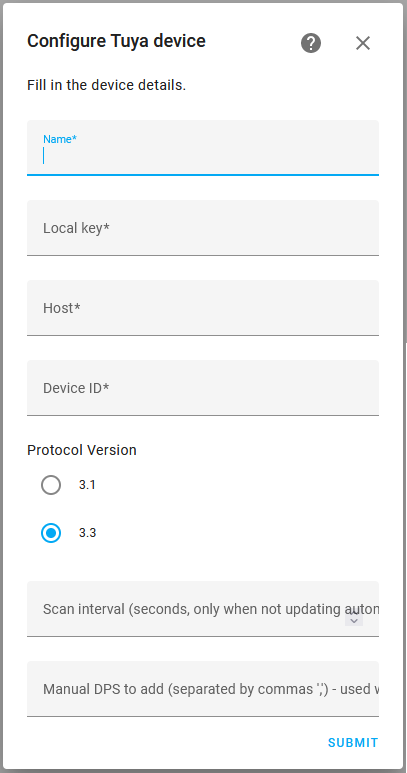
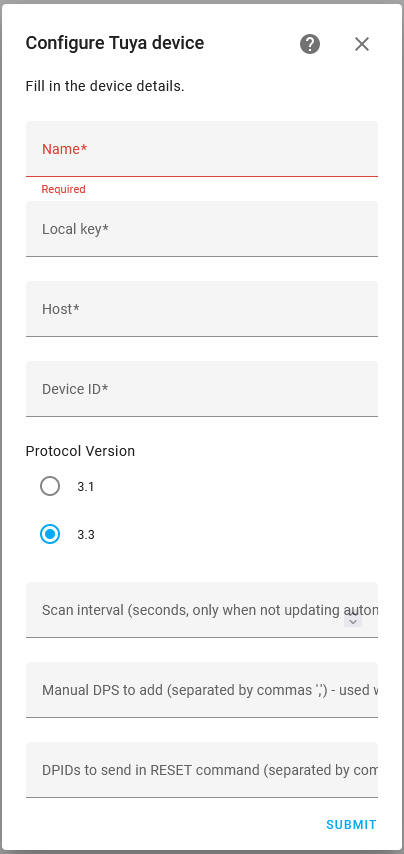
Implementing RESET Tuya function to enable devices which are stuck in a zombie mode to start responding to commands. Added configurable DPS for Reset command as found devices wouldn't 'wake up' unless they had exactly the right entries

diff --git a/custom_components/localtuya/common.py b/custom_components/localtuya/common.py
@@ -35,6 +35,7 @@ from .const import (
     CONF_DEFAULT_VALUE,
     ATTR_STATE,
     CONF_RESTORE_ON_RECONNECT,
+    CONF_RESET_DPIDS,
 )
 
 _LOGGER = logging.getLogger(__name__)
@@ -143,6 +144,14 @@ class TuyaDevice(pytuya.TuyaListener, pytuya.ContextualLogger):
         self._unsub_interval = None
         self._entities = []
         self._local_key = self._dev_config_entry[CONF_LOCAL_KEY]
+        self._default_reset_dpids = None
+        if CONF_RESET_DPIDS in self._dev_config_entry:
+            reset_ids_str = self._dev_config_entry[CONF_RESET_DPIDS].split(",")
+
+            self._default_reset_dpids = []
+            for reset_id in reset_ids_str:
+                self._default_reset_dpids.append(int(reset_id.strip()))
+
         self.set_logger(_LOGGER, self._dev_config_entry[CONF_DEVICE_ID])
 
         # This has to be done in case the device type is type_0d
@@ -181,14 +190,60 @@ class TuyaDevice(pytuya.TuyaListener, pytuya.ContextualLogger):
                 self,
             )
             self._interface.add_dps_to_request(self.dps_to_request)
+        except Exception:  # pylint: disable=broad-except
+            self.exception(f"Connect to {self._dev_config_entry[CONF_HOST]} failed")
+            if self._interface is not None:
+                await self._interface.close()
+                self._interface = None
 
-            self.debug("Retrieving initial state")
-            status = await self._interface.status()
-            if status is None:
-                raise Exception("Failed to retrieve status")
+        if self._interface is not None:
+            try:
+                self.debug("Retrieving initial state")
+                status = await self._interface.status()
+                if status is None:
+                    raise Exception("Failed to retrieve status")
 
-            self.status_updated(status)
+                self._interface.start_heartbeat()
+                self.status_updated(status)
 
+            except Exception as ex:  # pylint: disable=broad-except
+                try:
+                    self.debug(
+                        "Initial state update failed, trying reset command "
+                        + "for DP IDs: %s",
+                        self._default_reset_dpids,
+                    )
+                    await self._interface.reset(self._default_reset_dpids)
+
+                    self.debug("Update completed, retrying initial state")
+                    status = await self._interface.status()
+                    if status is None or not status:
+                        raise Exception("Failed to retrieve status") from ex
+
+                    self._interface.start_heartbeat()
+                    self.status_updated(status)
+
+                except UnicodeDecodeError as e:  # pylint: disable=broad-except
+                    self.exception(
+                        f"Connect to {self._dev_config_entry[CONF_HOST]} failed: %s",
+                        type(e),
+                    )
+                    if self._interface is not None:
+                        await self._interface.close()
+                        self._interface = None
+
+                except Exception as e:  # pylint: disable=broad-except
+                    self.exception(
+                        f"Connect to {self._dev_config_entry[CONF_HOST]} failed"
+                    )
+                    if "json.decode" in str(type(e)):
+                        await self.update_local_key()
+
+                    if self._interface is not None:
+                        await self._interface.close()
+                        self._interface = None
+
+        if self._interface is not None:
             # Attempt to restore status for all entities that need to first set
             # the DPS value before the device will respond with status.
             for entity in self._entities:
@@ -216,22 +271,7 @@ class TuyaDevice(pytuya.TuyaListener, pytuya.ContextualLogger):
                     self._async_refresh,
                     timedelta(seconds=self._dev_config_entry[CONF_SCAN_INTERVAL]),
                 )
-        except UnicodeDecodeError as e:  # pylint: disable=broad-except
-            self.exception(
-                f"Connect to {self._dev_config_entry[CONF_HOST]} failed: %s", type(e)
-            )
-            if self._interface is not None:
-                await self._interface.close()
-                self._interface = None
 
-        except Exception as e:  # pylint: disable=broad-except
-            self.exception(f"Connect to {self._dev_config_entry[CONF_HOST]} failed")
-            if "json.decode" in str(type(e)):
-                await self.update_local_key()
-
-            if self._interface is not None:
-                await self._interface.close()
-                self._interface = None
         self._connect_task = None
 
     async def update_local_key(self):

diff --git a/custom_components/localtuya/pytuya/__init__.py b/custom_components/localtuya/pytuya/__init__.py
@@ -62,6 +62,7 @@ TuyaMessage = namedtuple("TuyaMessage", "seqno cmd retcode payload crc")
 SET = "set"
 STATUS = "status"
 HEARTBEAT = "heartbeat"
+RESET = "reset"
 UPDATEDPS = "updatedps"  # Request refresh of DPS
 
 PROTOCOL_VERSION_BYTES_31 = b"3.1"
@@ -96,6 +97,16 @@ PAYLOAD_DICT = {
         SET: {"hexByte": 0x07, "command": {"devId": "", "uid": "", "t": ""}},
         HEARTBEAT: {"hexByte": 0x09, "command": {}},
         UPDATEDPS: {"hexByte": 0x12, "command": {"dpId": [18, 19, 20]}},
+        RESET: {
+            "hexByte": 0x12,
+            "command": {
+                "gwId": "",
+                "devId": "",
+                "uid": "",
+                "t": "",
+                "dpId": [18, 19, 20],
+            },
+        },
     },
     "type_0d": {
         STATUS: {"hexByte": 0x0D, "command": {"devId": "", "uid": "", "t": ""}},
@@ -217,6 +228,7 @@ class MessageDispatcher(ContextualLogger):
     # Heartbeats always respond with sequence number 0, so they can't be waited for like
     # other messages. This is a hack to allow waiting for heartbeats.
     HEARTBEAT_SEQNO = -100
+    RESET_SEQNO = -101
 
     def __init__(self, dev_id, listener):
         """Initialize a new MessageBuffer."""
@@ -301,9 +313,19 @@ class MessageDispatcher(ContextualLogger):
                 sem.release()
         elif msg.cmd == 0x12:
             self.debug("Got normal updatedps response")
+            if self.RESET_SEQNO in self.listeners:
+                sem = self.listeners[self.RESET_SEQNO]
+                self.listeners[self.RESET_SEQNO] = msg
+                sem.release()
         elif msg.cmd == 0x08:
-            self.debug("Got status update")
-            self.listener(msg)
+            if self.RESET_SEQNO in self.listeners:
+                self.debug("Got reset status update")
+                sem = self.listeners[self.RESET_SEQNO]
+                self.listeners[self.RESET_SEQNO] = msg
+                sem.release()
+            else:
+                self.debug("Got status update")
+                self.listener(msg)
         else:
             self.debug(
                 "Got message type %d for unknown listener %d: %s",
@@ -381,6 +403,11 @@ class TuyaProtocol(asyncio.Protocol, ContextualLogger):
 
     def connection_made(self, transport):
         """Did connect to the device."""
+        self.transport = transport
+        self.on_connected.set_result(True)
+
+    def start_heartbeat(self):
+        """Start the heartbeat transmissions with the device."""
 
         async def heartbeat_loop():
             """Continuously send heart beat updates."""
@@ -403,8 +430,6 @@ class TuyaProtocol(asyncio.Protocol, ContextualLogger):
             self.transport = None
             transport.close()
 
-        self.transport = transport
-        self.on_connected.set_result(True)
         self.heartbeater = self.loop.create_task(heartbeat_loop())
 
     def data_received(self, data):
@@ -449,12 +474,13 @@ class TuyaProtocol(asyncio.Protocol, ContextualLogger):
         payload = self._generate_payload(command, dps)
         dev_type = self.dev_type
 
-        # Wait for special sequence number if heartbeat
-        seqno = (
-            MessageDispatcher.HEARTBEAT_SEQNO
-            if command == HEARTBEAT
-            else (self.seqno - 1)
-        )
+        # Wait for special sequence number if heartbeat or reset
+        seqno = self.seqno - 1
+
+        if command == HEARTBEAT:
+            seqno = MessageDispatcher.HEARTBEAT_SEQNO
+        elif command == RESET:
+            seqno = MessageDispatcher.RESET_SEQNO
 
         self.transport.write(payload)
         msg = await self.dispatcher.wait_for(seqno)
@@ -486,6 +512,15 @@ class TuyaProtocol(asyncio.Protocol, ContextualLogger):
     async def heartbeat(self):
         """Send a heartbeat message."""
         return await self.exchange(HEARTBEAT)
+
+    async def reset(self, dpIds=None):
+        """Send a reset message (3.3 only)."""
+        if self.version == 3.3:
+            self.dev_type = "type_0a"
+            self.debug("reset switching to dev_type %s", self.dev_type)
+            return await self.exchange(RESET, dpIds)
+
+        return True
 
     async def update_dps(self, dps=None):
         """

diff --git a/custom_components/localtuya/config_flow.py b/custom_components/localtuya/config_flow.py
@@ -38,6 +38,7 @@ from .const import (
     CONF_NO_CLOUD,
     CONF_PRODUCT_NAME,
     CONF_PROTOCOL_VERSION,
+    CONF_RESET_DPIDS,
     CONF_SETUP_CLOUD,
     CONF_USER_ID,
     DATA_CLOUD,
@@ -90,6 +91,7 @@ CONFIGURE_DEVICE_SCHEMA = vol.Schema(
         vol.Required(CONF_PROTOCOL_VERSION, default="3.3"): vol.In(["3.1", "3.3"]),
         vol.Optional(CONF_SCAN_INTERVAL): int,
         vol.Optional(CONF_MANUAL_DPS): str,
+        vol.Optional(CONF_RESET_DPIDS): str,
     }
 )
 
@@ -102,6 +104,7 @@ DEVICE_SCHEMA = vol.Schema(
         vol.Required(CONF_PROTOCOL_VERSION, default="3.3"): vol.In(["3.1", "3.3"]),
         vol.Optional(CONF_SCAN_INTERVAL): int,
         vol.Optional(CONF_MANUAL_DPS): cv.string,
+        vol.Optional(CONF_RESET_DPIDS): str,
     }
 )
 
@@ -144,6 +147,7 @@ def options_schema(entities):
             vol.Required(CONF_PROTOCOL_VERSION, default="3.3"): vol.In(["3.1", "3.3"]),
             vol.Optional(CONF_SCAN_INTERVAL): int,
             vol.Optional(CONF_MANUAL_DPS): str,
+            vol.Optional(CONF_RESET_DPIDS): str,
             vol.Required(
                 CONF_ENTITIES, description={"suggested_value": entity_names}
             ): cv.multi_select(entity_names),
@@ -235,6 +239,8 @@ async def validate_input(hass: core.HomeAssistant, data):
     detected_dps = {}
 
     interface = None
+
+    reset_ids = None
     try:
         interface = await pytuya.connect(
             data[CONF_HOST],
@@ -243,20 +249,39 @@ async def validate_input(hass: core.HomeAssistant, data):
             float(data[CONF_PROTOCOL_VERSION]),
         )
 
-        detected_dps = await interface.detect_available_dps()
+        try:
+            detected_dps = await interface.detect_available_dps()
+        except Exception:  # pylint: disable=broad-except
+            try:
+                _LOGGER.debug("Initial state update failed, trying reset command")
+                if CONF_RESET_DPIDS in data:
+                    reset_ids_str = data[CONF_RESET_DPIDS].split(",")
+                    reset_ids = []
+                    for reset_id in reset_ids_str:
+                        reset_ids.append(int(reset_id.strip()))
+                    _LOGGER.debug(
+                        "Reset DPIDs configured: %s (%s)",
+                        data[CONF_RESET_DPIDS],
+                        reset_ids,
+                    )
+                await interface.reset(reset_ids)
+                detected_dps = await interface.detect_available_dps()
+            except Exception:  # pylint: disable=broad-except
+                _LOGGER.debug("No DPS able to be detected")
+                detected_dps = {}
 
         # if manual DPs are set, merge these.
         _LOGGER.debug("Detected DPS: %s", detected_dps)
         if CONF_MANUAL_DPS in data:
 
-            manual_dps_list = data[CONF_MANUAL_DPS].split(",")
+            manual_dps_list = [dps.strip() for dps in data[CONF_MANUAL_DPS].split(",")]
             _LOGGER.debug(
                 "Manual DPS Setting: %s (%s)", data[CONF_MANUAL_DPS], manual_dps_list
             )
             # merge the lists
-            for new_dps in manual_dps_list:
-                # trim off any whitespace
-                new_dps = new_dps.strip()
+            for new_dps in manual_dps_list + (reset_ids or []):
+                # If the DPS not in the detected dps list, then add with a
+                # default value indicating that it has been manually added
                 if new_dps not in detected_dps:
                     detected_dps[new_dps] = -1
 

diff --git a/custom_components/localtuya/const.py b/custom_components/localtuya/const.py
@@ -43,6 +43,7 @@ CONF_SETUP_CLOUD = "setup_cloud"
 CONF_NO_CLOUD = "no_cloud"
 CONF_MANUAL_DPS = "manual_dps_strings"
 CONF_DEFAULT_VALUE = "dps_default_value"
+CONF_RESET_DPIDS = "reset_dpids"
 
 # light
 CONF_BRIGHTNESS_LOWER = "brightness_lower"

diff --git a/README.md b/README.md
@@ -94,6 +94,8 @@ Setting the scan interval is optional, it is only needed if energy/power values 
 
 Setting the 'Manual DPS To Add' is optional, it is only needed if the device doesn't advertise the DPS correctly until the entity has been properly initiailised. This setting can often be avoided by first connecting/initialising the device with the Tuya App, then closing the app and then adding the device in the integration.
 
+Setting the 'DPIDs to send in RESET command' is optional. It is used when a device doesn't respond to any Tuya commands after a power cycle, but can be connected to (zombie state). The DPids will vary between devices, but typically "18,19,20" is used (and will be the default if none specified). If the wrong entries are added here, then the device may not come out of the zombie state. Typically only sensor DPIDs entered here.
+
 Once you press "Submit", the connection is tested to check that everything works.
 
 ![image](https://github.com/rospogrigio/localtuya-homeassistant/blob/master/img/2-device.png)
